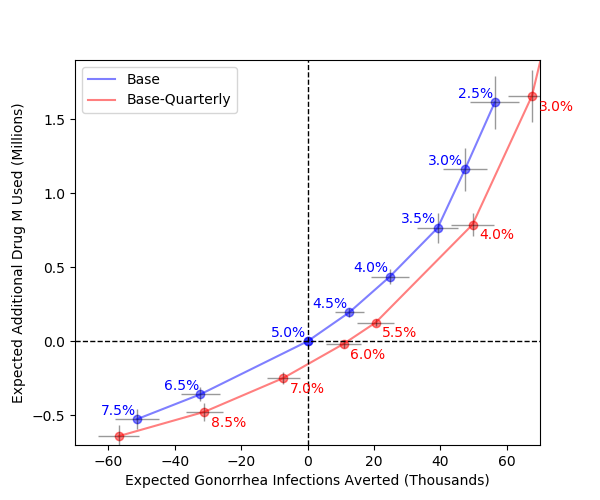
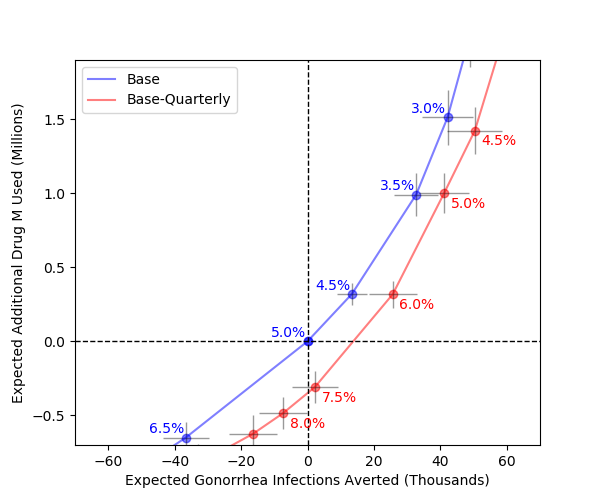
updating gonorrhea analysis

Changed region(s): [[0.18, 0.45, 0.72, 0.9], [0.63, 0.12, 0.96, 0.54], [0.51, 0.66, 0.54, 0.69]]

diff --git a/gonorrhea/SABaseAndQuarterlyBase.py b/gonorrhea/SABaseAndQuarterlyBase.py
@@ -39,7 +39,7 @@ Cls.plot_series(series=series,
                 x_label='Expected Gonorrhea Infections Averted (Thousands)',
                 y_label='Expected Additional Drug M Used (Millions)',
                 file_name='-Base vs Quarterly Base.png',
-                x_range=(-70, 70),
-                y_range=(-0.7, 1.9),
+                x_range=Set.X_RANGE,
+                y_range=Set.Y_RANGE,
                 show_error_bars=True
                 )

diff --git a/gonorrhea/SABaseAndQuarterlyA.py b/gonorrhea/SABaseAndQuarterlyA.py
@@ -39,7 +39,7 @@ Cls.plot_series(series=series,
                 x_label='Expected Gonorrhea Infections Averted (Thousands)',
                 y_label='Expected Additional Drug M Used (Millions)',
                 file_name='-Base vs Quarterly A.png',
-                x_range=(-70, 70),
-                y_range=(-0.7, 1.9),
+                x_range=Set.X_RANGE,
+                y_range=Set.Y_RANGE,
                 show_error_bars=True
                 )

diff --git a/gonorrhea/SABaseAndA.py b/gonorrhea/SABaseAndA.py
@@ -39,7 +39,7 @@ Cls.plot_series(series=series,
                 x_label='Expected Gonorrhea Infections Averted (Thousands)',
                 y_label='Expected Additional Drug M Used (Millions)',
                 file_name='-Base vs A.png',
-                x_range=(-70, 70),
-                y_range=(-0.7, 1.9),
+                x_range=Set.X_RANGE,
+                y_range=Set.Y_RANGE,
                 show_error_bars=True
                 )

diff --git a/gonorrhea/SABase.py b/gonorrhea/SABase.py
@@ -29,7 +29,7 @@ Cls.plot_series(series=series,
                 x_label='Expected Gonorrhea Infections Averted (Thousands)',
                 y_label='Expected Additional Drug M Used (Millions)',
                 file_name='-Base.png',
-                x_range=(-70, 70),
-                y_range=(-0.7, 1.9),
+                x_range=Set.X_RANGE,
+                y_range=Set.Y_RANGE,
                 show_error_bars=True
                 )

diff --git a/gonorrhea/GonoSettings.py b/gonorrhea/GonoSettings.py
@@ -1,8 +1,10 @@
 
-INDX = 1
+INDX = 2
+X_RANGE = (-70, 70)
+Y_RANGE = (-0.7, 1.9)
 
 # file names for scenario analysis
-SA_FILE_NAMES = ['csvfiles\SAAll_WithDR.csv', 'csvfiles\SAAll_NoDR.csv', 'csvfiles\SAAll_NoDR_v2.csv']
+SA_FILE_NAMES = ['csvfiles\SAAll_WithDR.csv', 'csvfiles\SAAll_NoDR.csv', 'csvfiles\SAAll_NoDR_Noise.csv']
 SELECTED_SA_FILE_NAME = SA_FILE_NAMES[INDX]
 
 # file names for parameter analysis
